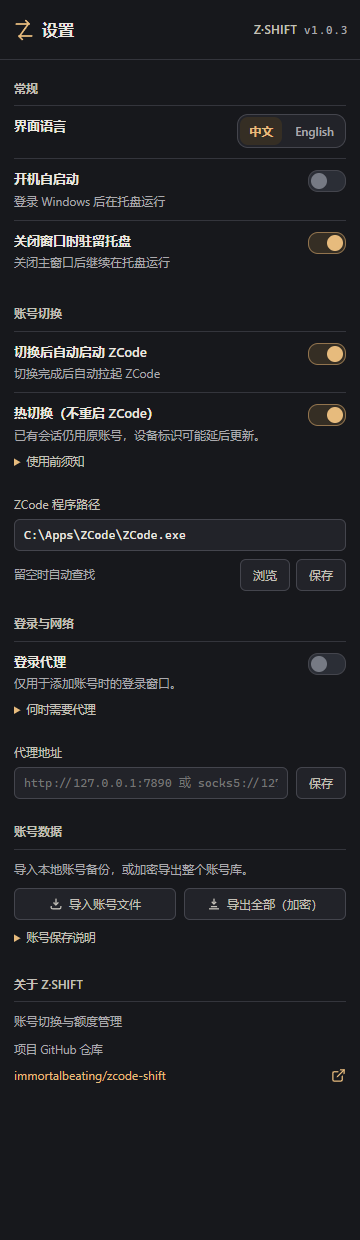
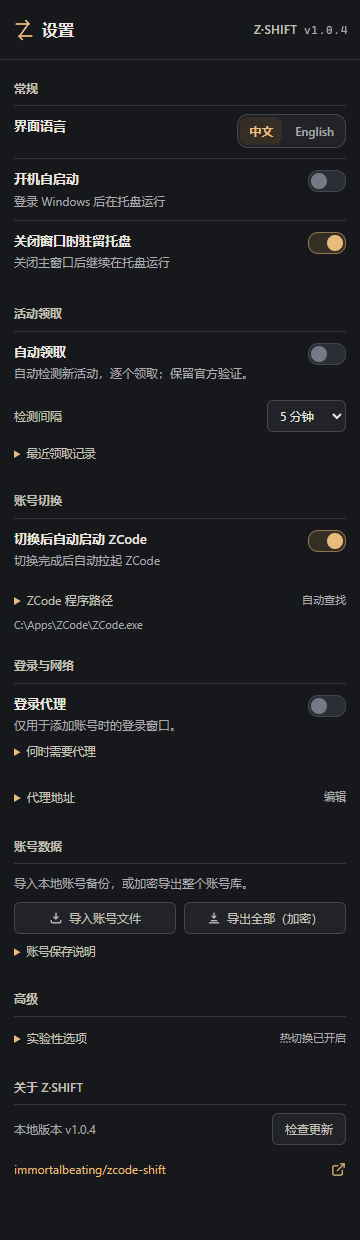
docs: describe v1.0.4 and refresh synthetic previews

diff --git a/README.en.md b/README.en.md
@@ -8,7 +8,13 @@ This version also repairs event-claim verification, discovers explicit claim act
 
 Claimed grants scheduled for later show their amount, start time, and expiry. Spendable balances remain based on the server's balance buckets; future grants are not counted as available tokens.
 
-Settings are grouped into General, Account switching, Sign-in & network, Account data, and About. Detailed explanations can be expanded when needed.
+Settings are grouped into General, Offer claims, Account switching, Sign-in & network, Account data, Advanced, and About. Low-frequency options and detailed explanations can be expanded when needed.
+
+Offer checks run every 2, 5, or 10 minutes (default: 5). Discovery overlaps for up to two accounts, while claims and official verification remain serial. Empty accounts add no fixed wait. A credential- and device-bound preview cache lasts 10 seconds and is invalidated on submission. Failures use categorized backoff and respect server cooldowns.
+
+The main window shows the current claim stage and next check. Settings keep the last 30 local results with discovery and submission timings, without credentials. Actual claim time still depends on network and official services.
+
+Executable paths support auto-detection, validation, and restoring automatic lookup. Path and proxy drafts survive other settings changes. Proxy testing checks port reachability only. Update checks query this repository's stable GitHub releases without downloading or installing anything; an unpublished release is reported explicitly.
 
 ![Z·SHIFT — synthetic demonstration data](docs/screenshot.png)
 
